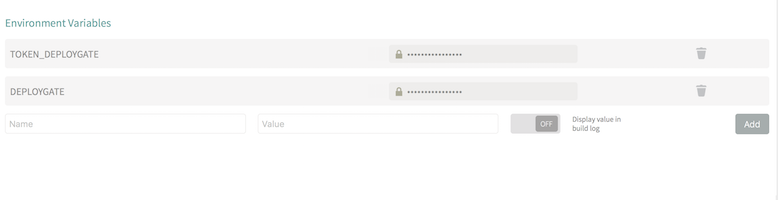
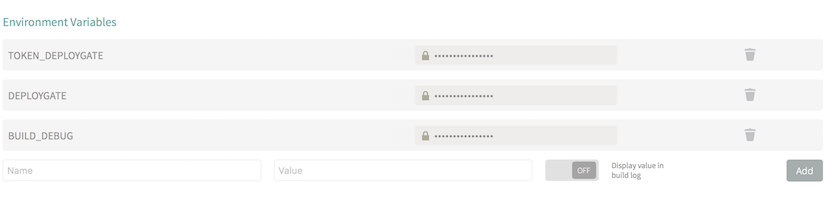
! Read me use script sh

diff --git a/README.md b/README.md
@@ -10,6 +10,7 @@ For issue tracking see the GitHub issues page: https://github.com/DeployGate/gra
 + In account Travis CI of project choose Setting->Setting and add variable
  - Add TOKEN_DEPLOYGATE with token from account DeployGate
  - Add DEPLOYGATE wiht user from account DeployGate
+ - Add BUILD_DEBUG = 1 : Auto build and upload to DeployGate
 ![Add Env Variable](https://raw.githubusercontent.com/huynhvan257/android-travis-ci-demo/master/image/add_env_variable.png)
  
 + Get TOKEN
@@ -19,7 +20,7 @@ For issue tracking see the GitHub issues page: https://github.com/DeployGate/gra
 ![Get token](https://raw.githubusercontent.com/huynhvan257/android-travis-ci-demo/master/image/api-token.png)
 
 
-Edit file .travis.yml:
+Edit file travis.sh:
 + Line - ./gradlew clean <type-build>
     - <type-build> : type build (sample assembleRelease)
 + Line - curl -F "file=@app-debug.apk" -F "token=${TOKEN_DEPLOYGATE}" -F "message=Auto upload" https://deploygate.com/api/users/${DEPLOYGATE}/apps
